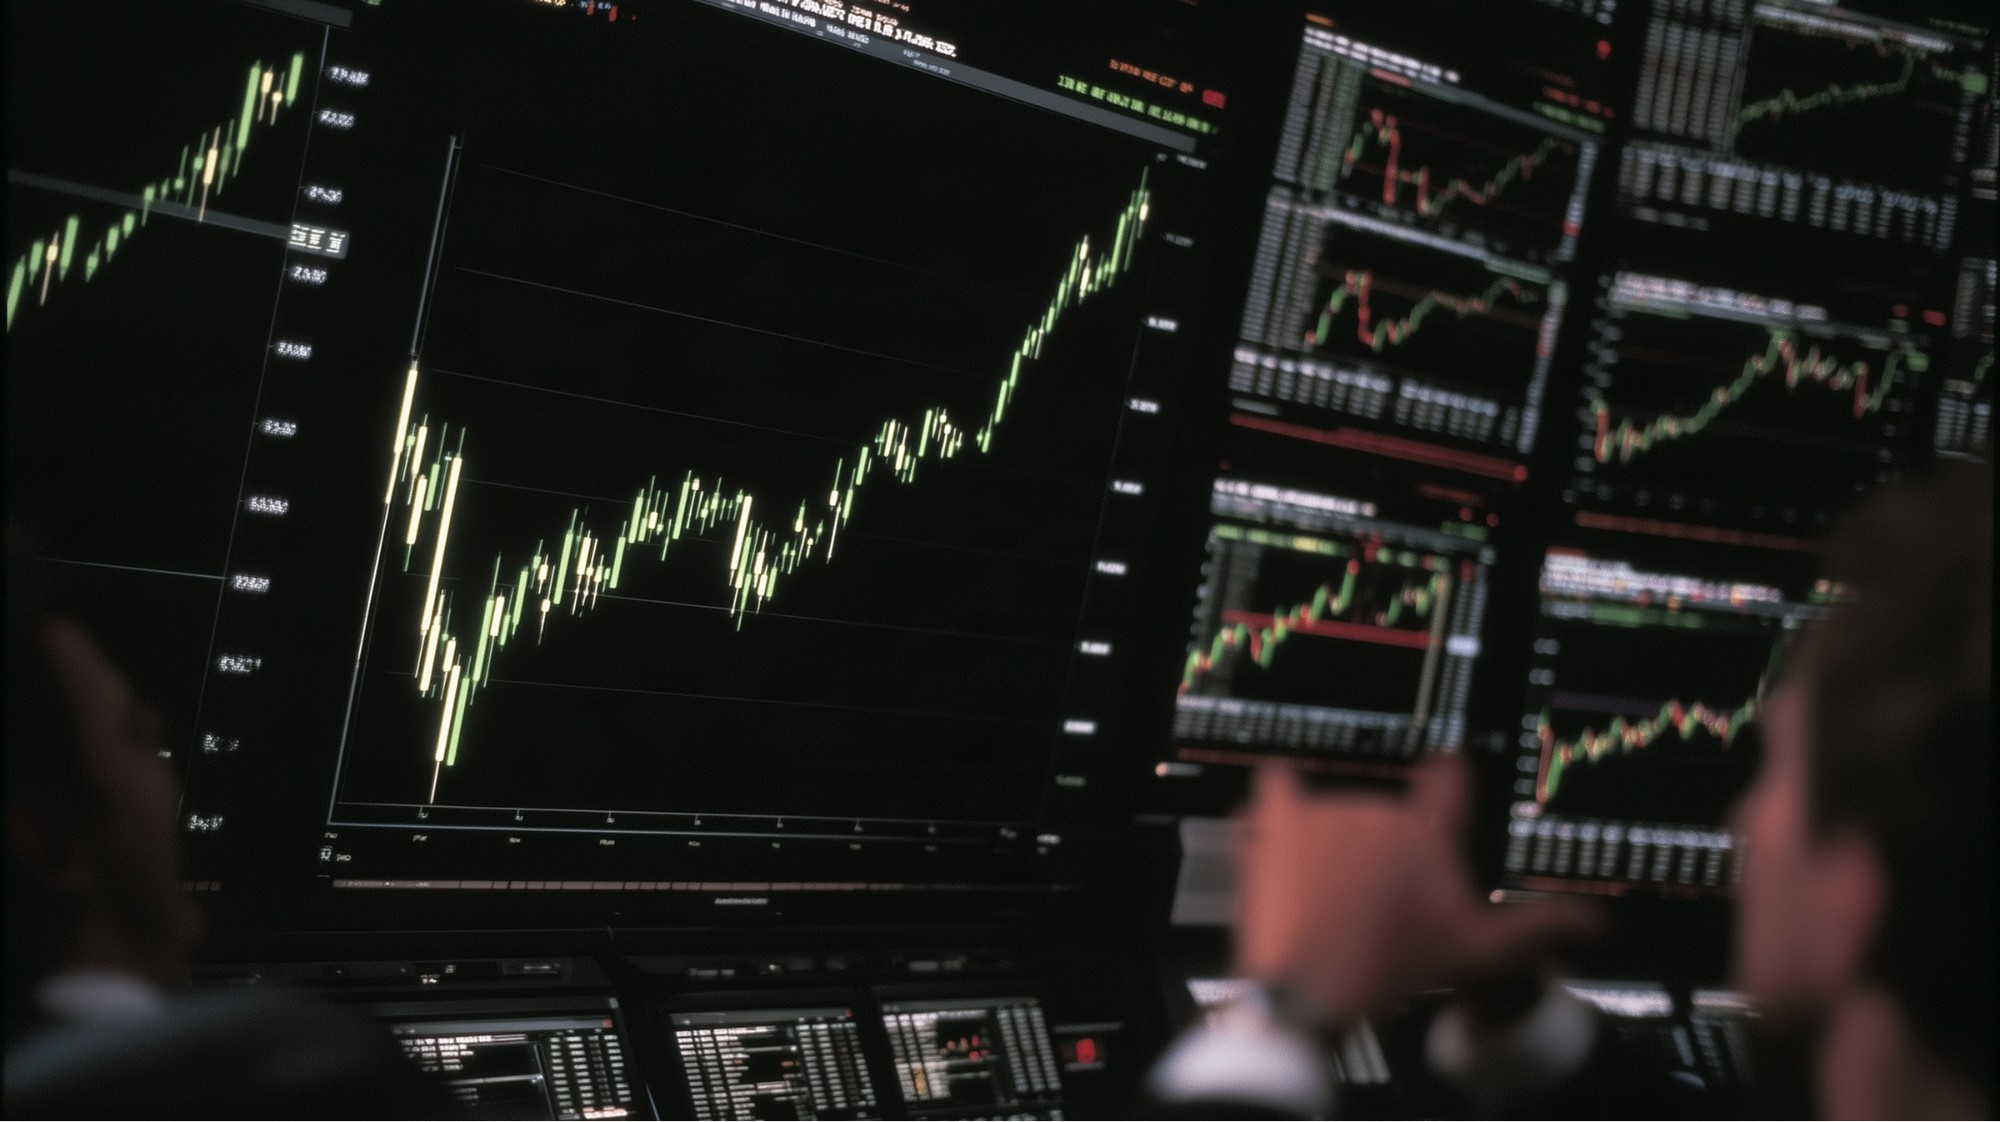
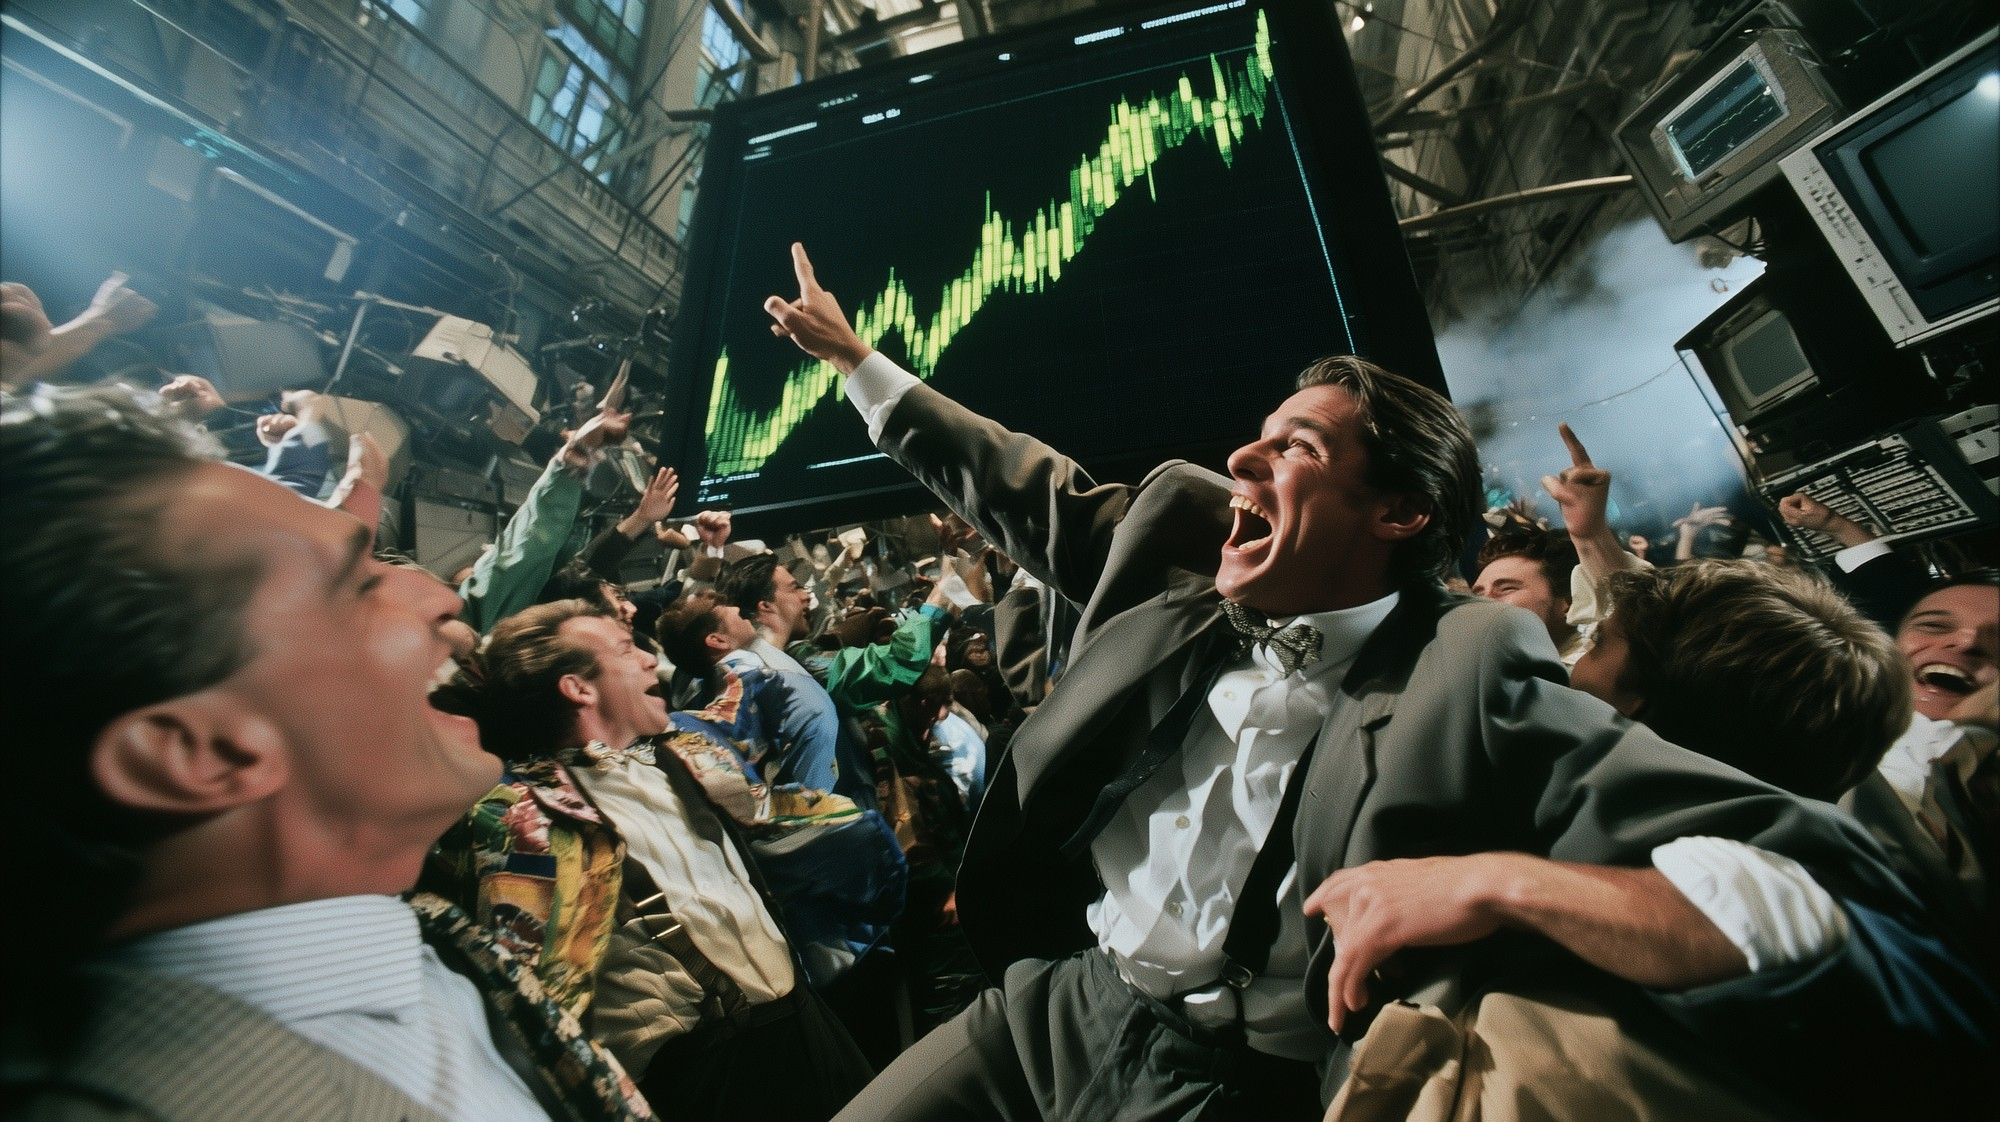
New photos for the first two cards; slightly stronger glass

diff --git a/src/styles/global.css b/src/styles/global.css
@@ -50,7 +50,7 @@ html.intro-wait .subtitle {
    shadow strong enough to lift it off the dark card, and a faint highlight
    along its top edge. */
 :root {
-  --glass-background: color-mix(in srgb, var(--color-text-primary) 3%, transparent);
+  --glass-background: color-mix(in srgb, var(--color-text-primary) 5%, transparent);
   --glass-blur: blur(48px) saturate(1.6);
   --glass-shadow:
     0 12px 40px rgb(0 0 0 / 0.4),
